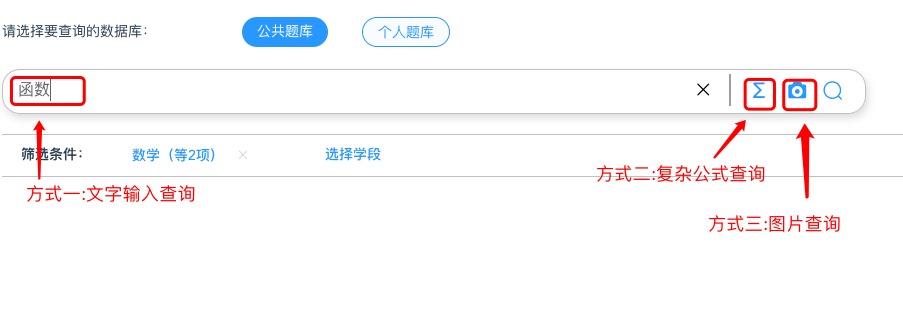
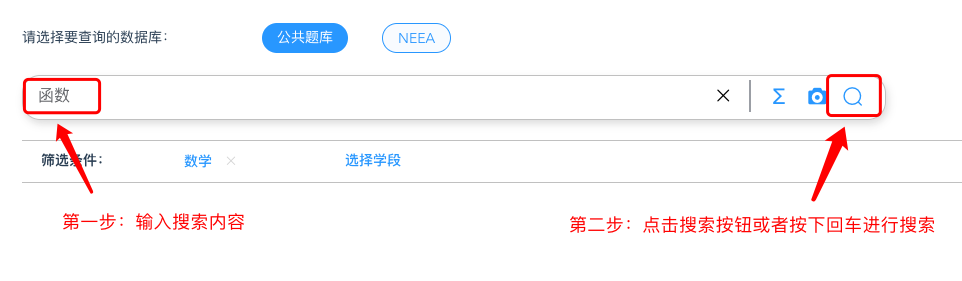
instruction update

diff --git a/src/views/resourceQuery/components/InstructionExercise.vue b/src/views/resourceQuery/components/InstructionExercise.vue
@@ -10,6 +10,11 @@ import sp1 from '@/assets/SP1.png';
 import sp2 from '@/assets/SP2.png';
 import sp3 from '@/assets/SP3.png';
 import sp4 from '@/assets/SP4.png';
+import sp5 from '@/assets/SP5.png';
+import sp6 from '@/assets/SP6.png';
+import sp7 from '@/assets/SP7.png';
+import sp8 from '@/assets/SP8.png';
+import sp9 from '@/assets/SP9.png';
 import Instruction from '@/common/components/Instruction.vue'
 export default {
   components:{
@@ -19,7 +24,7 @@ export default {
     return {
       steps:[
         {
-          desc:'选择需要查询的数据库',
+          desc:'选择需要查询的题库',
           imgSrc:sp1
         },
         {
@@ -27,12 +32,32 @@ export default {
           imgSrc:sp2
         },
         {
-          desc:'输入搜索内容：简单文字查询｜复杂公式查询｜图片查询',
+          desc:'方式一：输入文字内容进行搜索',
           imgSrc:sp3
         },
         {
-          desc:'进行查询',
+          desc:'方式二：上传图片进行搜索',
           imgSrc:sp4
+        },
+        {
+          desc:'方式二：上传图片进行搜索-上传图片',
+          imgSrc:sp5
+        },
+        {
+          desc:'方式二：上传图片进行搜索-调整图片并搜索',
+          imgSrc:sp6
+        },
+        {
+          desc:'方式三：输入公式进行搜索',
+          imgSrc:sp7
+        },
+        {
+          desc:'方式三：输入公式进行搜索-编辑公式等搜索内容',
+          imgSrc:sp8
+        },
+        {
+          desc:'方式三：输入公式进行搜索-进行搜索',
+          imgSrc:sp9
         },
       ]
     }

diff --git a/src/common/components/Instruction.vue b/src/common/components/Instruction.vue
@@ -2,11 +2,12 @@
   <el-dialog
       :visible.sync="visible"
       title="使用说明"
-      width="65%"
+      top="5%"
+      width="80%"
       :modal-append-to-body="false"
       :close-on-click-modal="true"
       >
-      <el-carousel :autoplay="false" arrow="always" height="60vh">
+      <el-carousel :autoplay="false" arrow="always" height="70vh">
         <el-carousel-item v-for="(item,i) in data" :key="i">
           <div class="desc">{{i+1}}、{{item.desc}} </div>
           <div class="img-container">
@@ -53,6 +54,8 @@ export default {
     align-items: center;
     img{
       max-width: 100%;
+      max-height: 100%;
+      // overflow-y: scroll;
       padding:5vh;
       margin: auto;
     }
